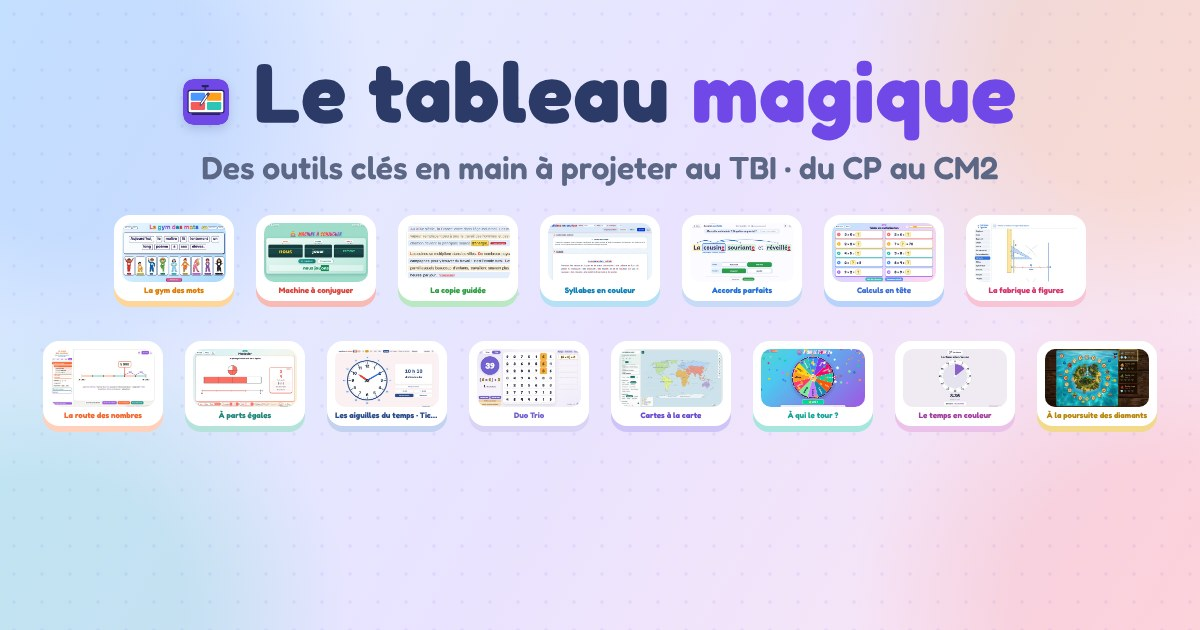
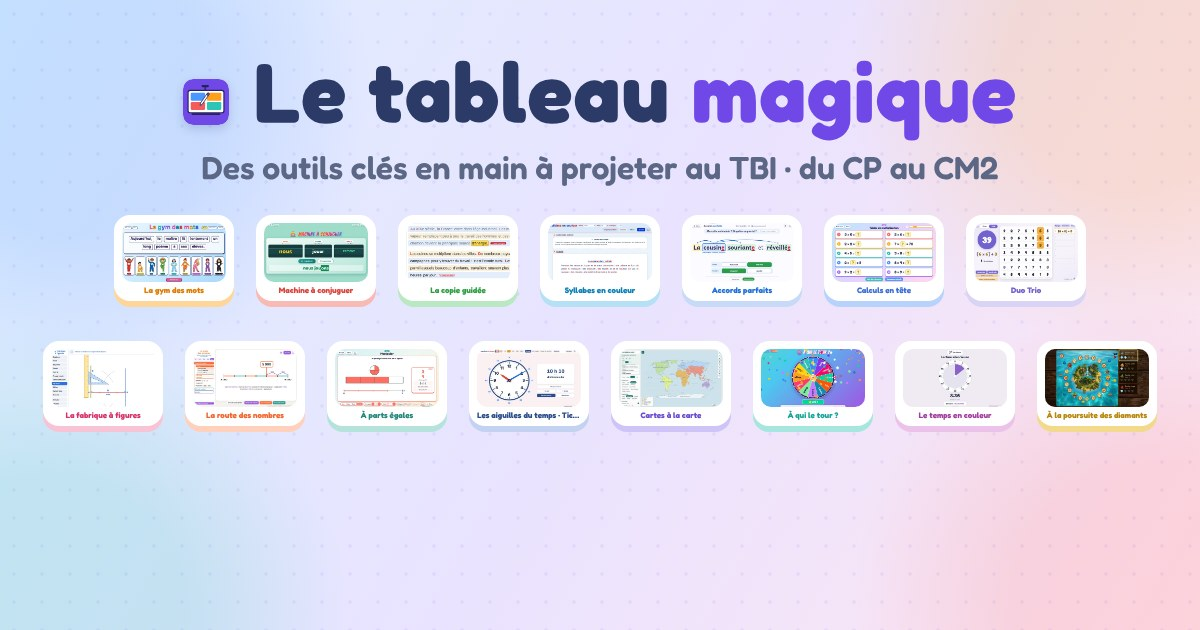
Portail 4.1 : Duo Trio entre Calculs en tete et La fabrique a figures
Claude-Session: https://claude.ai/code/session_01Te8xrvMufWVNSVLdwnm9Mc

diff --git a/outils.js b/outils.js
@@ -105,6 +105,21 @@ self.OUTILS = [
   },
 
   {
+    dossier: 'trio-duo',
+    domaine: 'maths',
+    version: '1.7',
+    nom: 'Duo Trio',
+    niveau: 'calcul mental · du CE2 au CM2',
+    texte: 'Un jeu de calcul mental à projeter au tableau, sur une grille de nombres. En Duo, on cherche deux nombres voisins '
+         + 'dont la somme, la différence ou le produit donne la cible. En Trio, on multiplie deux nombres voisins puis on ajoute '
+         + 'ou on retranche un troisième, aligné avec eux. Les élèves proposent des cases, le calcul se vérifie tout seul, '
+         + 'et on peut dévoiler une ou toutes les solutions. Réglages simples (taille de la grille, opérations, cibles) '
+         + 'et fiches Word à imprimer avec corrigé.',
+    donnees: ['trio-duo-reglages'],
+    couleur: '#7262D0', ombre: '#D9D3F5'
+  },
+
+  {
     dossier: 'geometrie',
     domaine: 'maths',
     version: '2.4',
@@ -157,21 +172,6 @@ self.OUTILS = [
          + 'Fiches à imprimer avec corrigé.',
     donnees: ['aiguilles-du-temps'],
     couleur: '#2B4C8C', ombre: '#C3D2F0'
-  },
-
-  {
-    dossier: 'trio-duo',
-    domaine: 'maths',
-    version: '1.7',
-    nom: 'Duo Trio',
-    niveau: 'calcul mental · du CE2 au CM2',
-    texte: 'Un jeu de calcul mental à projeter au tableau, sur une grille de nombres. En Duo, on cherche deux nombres voisins '
-         + 'dont la somme, la différence ou le produit donne la cible. En Trio, on multiplie deux nombres voisins puis on ajoute '
-         + 'ou on retranche un troisième, aligné avec eux. Les élèves proposent des cases, le calcul se vérifie tout seul, '
-         + 'et on peut dévoiler une ou toutes les solutions. Réglages simples (taille de la grille, opérations, cibles) '
-         + 'et fiches Word à imprimer avec corrigé.',
-    donnees: ['trio-duo-reglages'],
-    couleur: '#7262D0', ombre: '#D9D3F5'
   },
 
   {

diff --git a/version.js b/version.js
@@ -3,4 +3,4 @@
    Il s'affiche en bas de la page d'accueil et déclenche la mise à jour automatique des applis installées.
    Chaque OUTIL a son propre numéro, dans outils.js : c'est celui-là qu'on change quand on modifie un outil.
    M. Guitton — fichier mis au point avec l'aide de Claude AI. */
-self.APP_VERSION = '4.0';
+self.APP_VERSION = '4.1';
